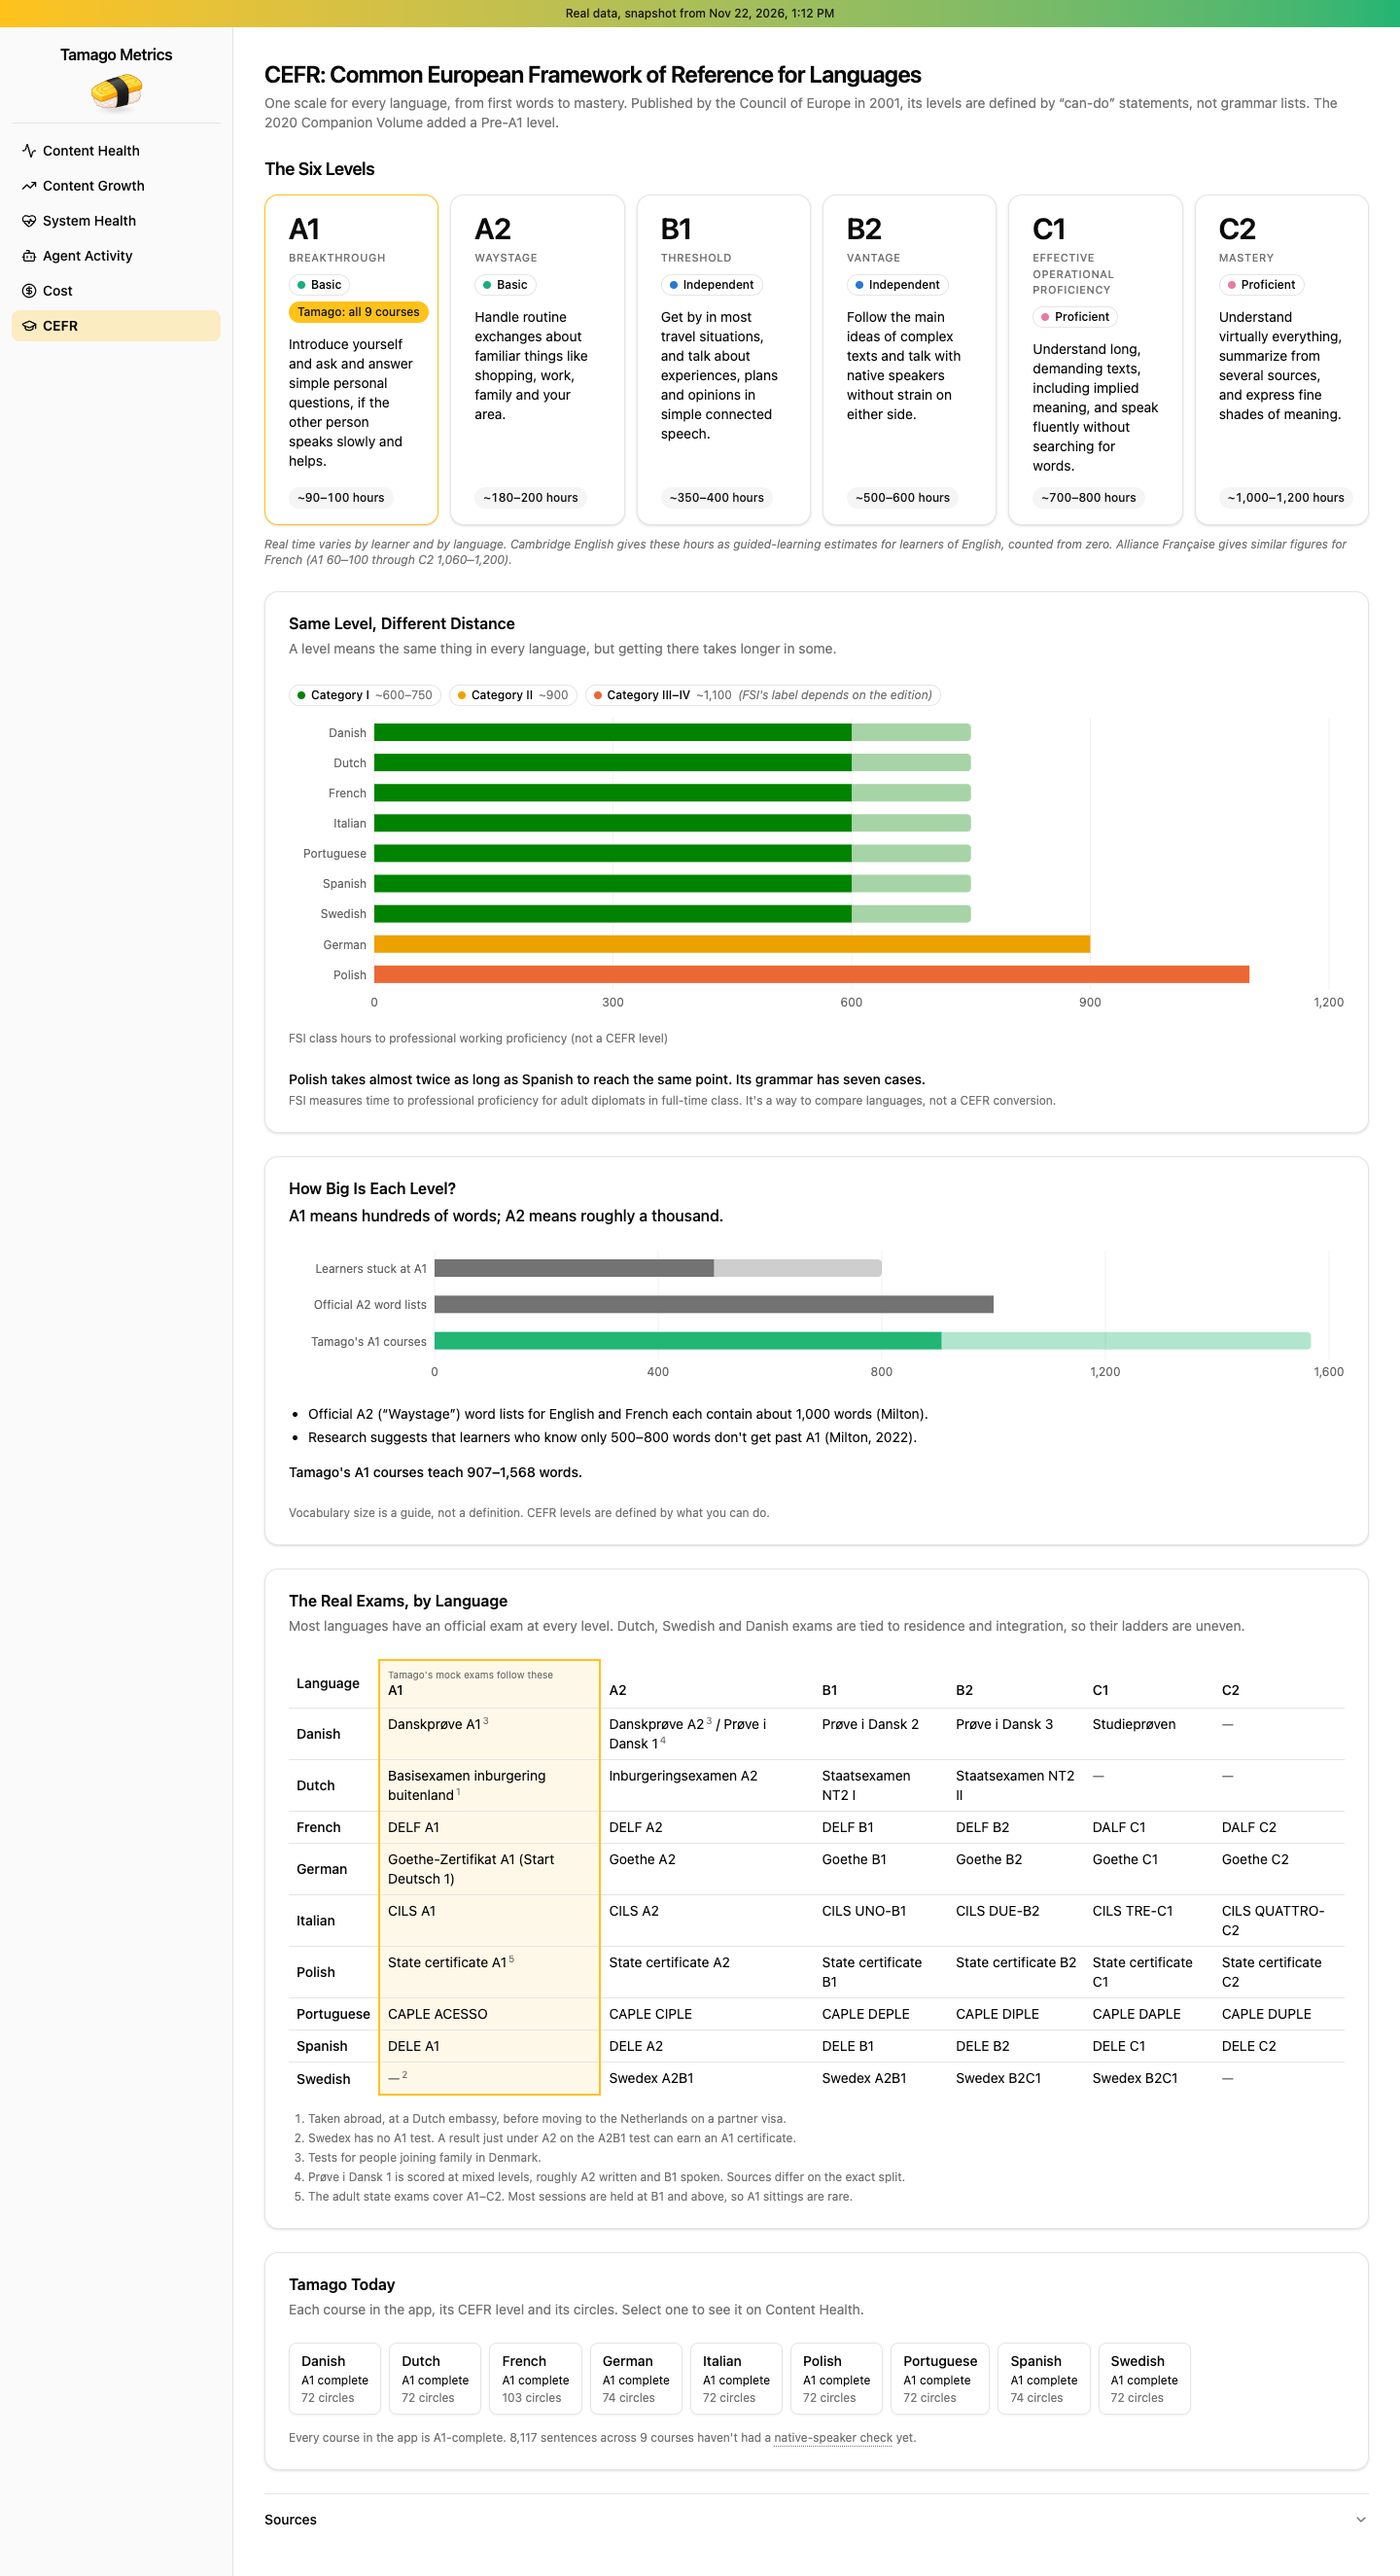
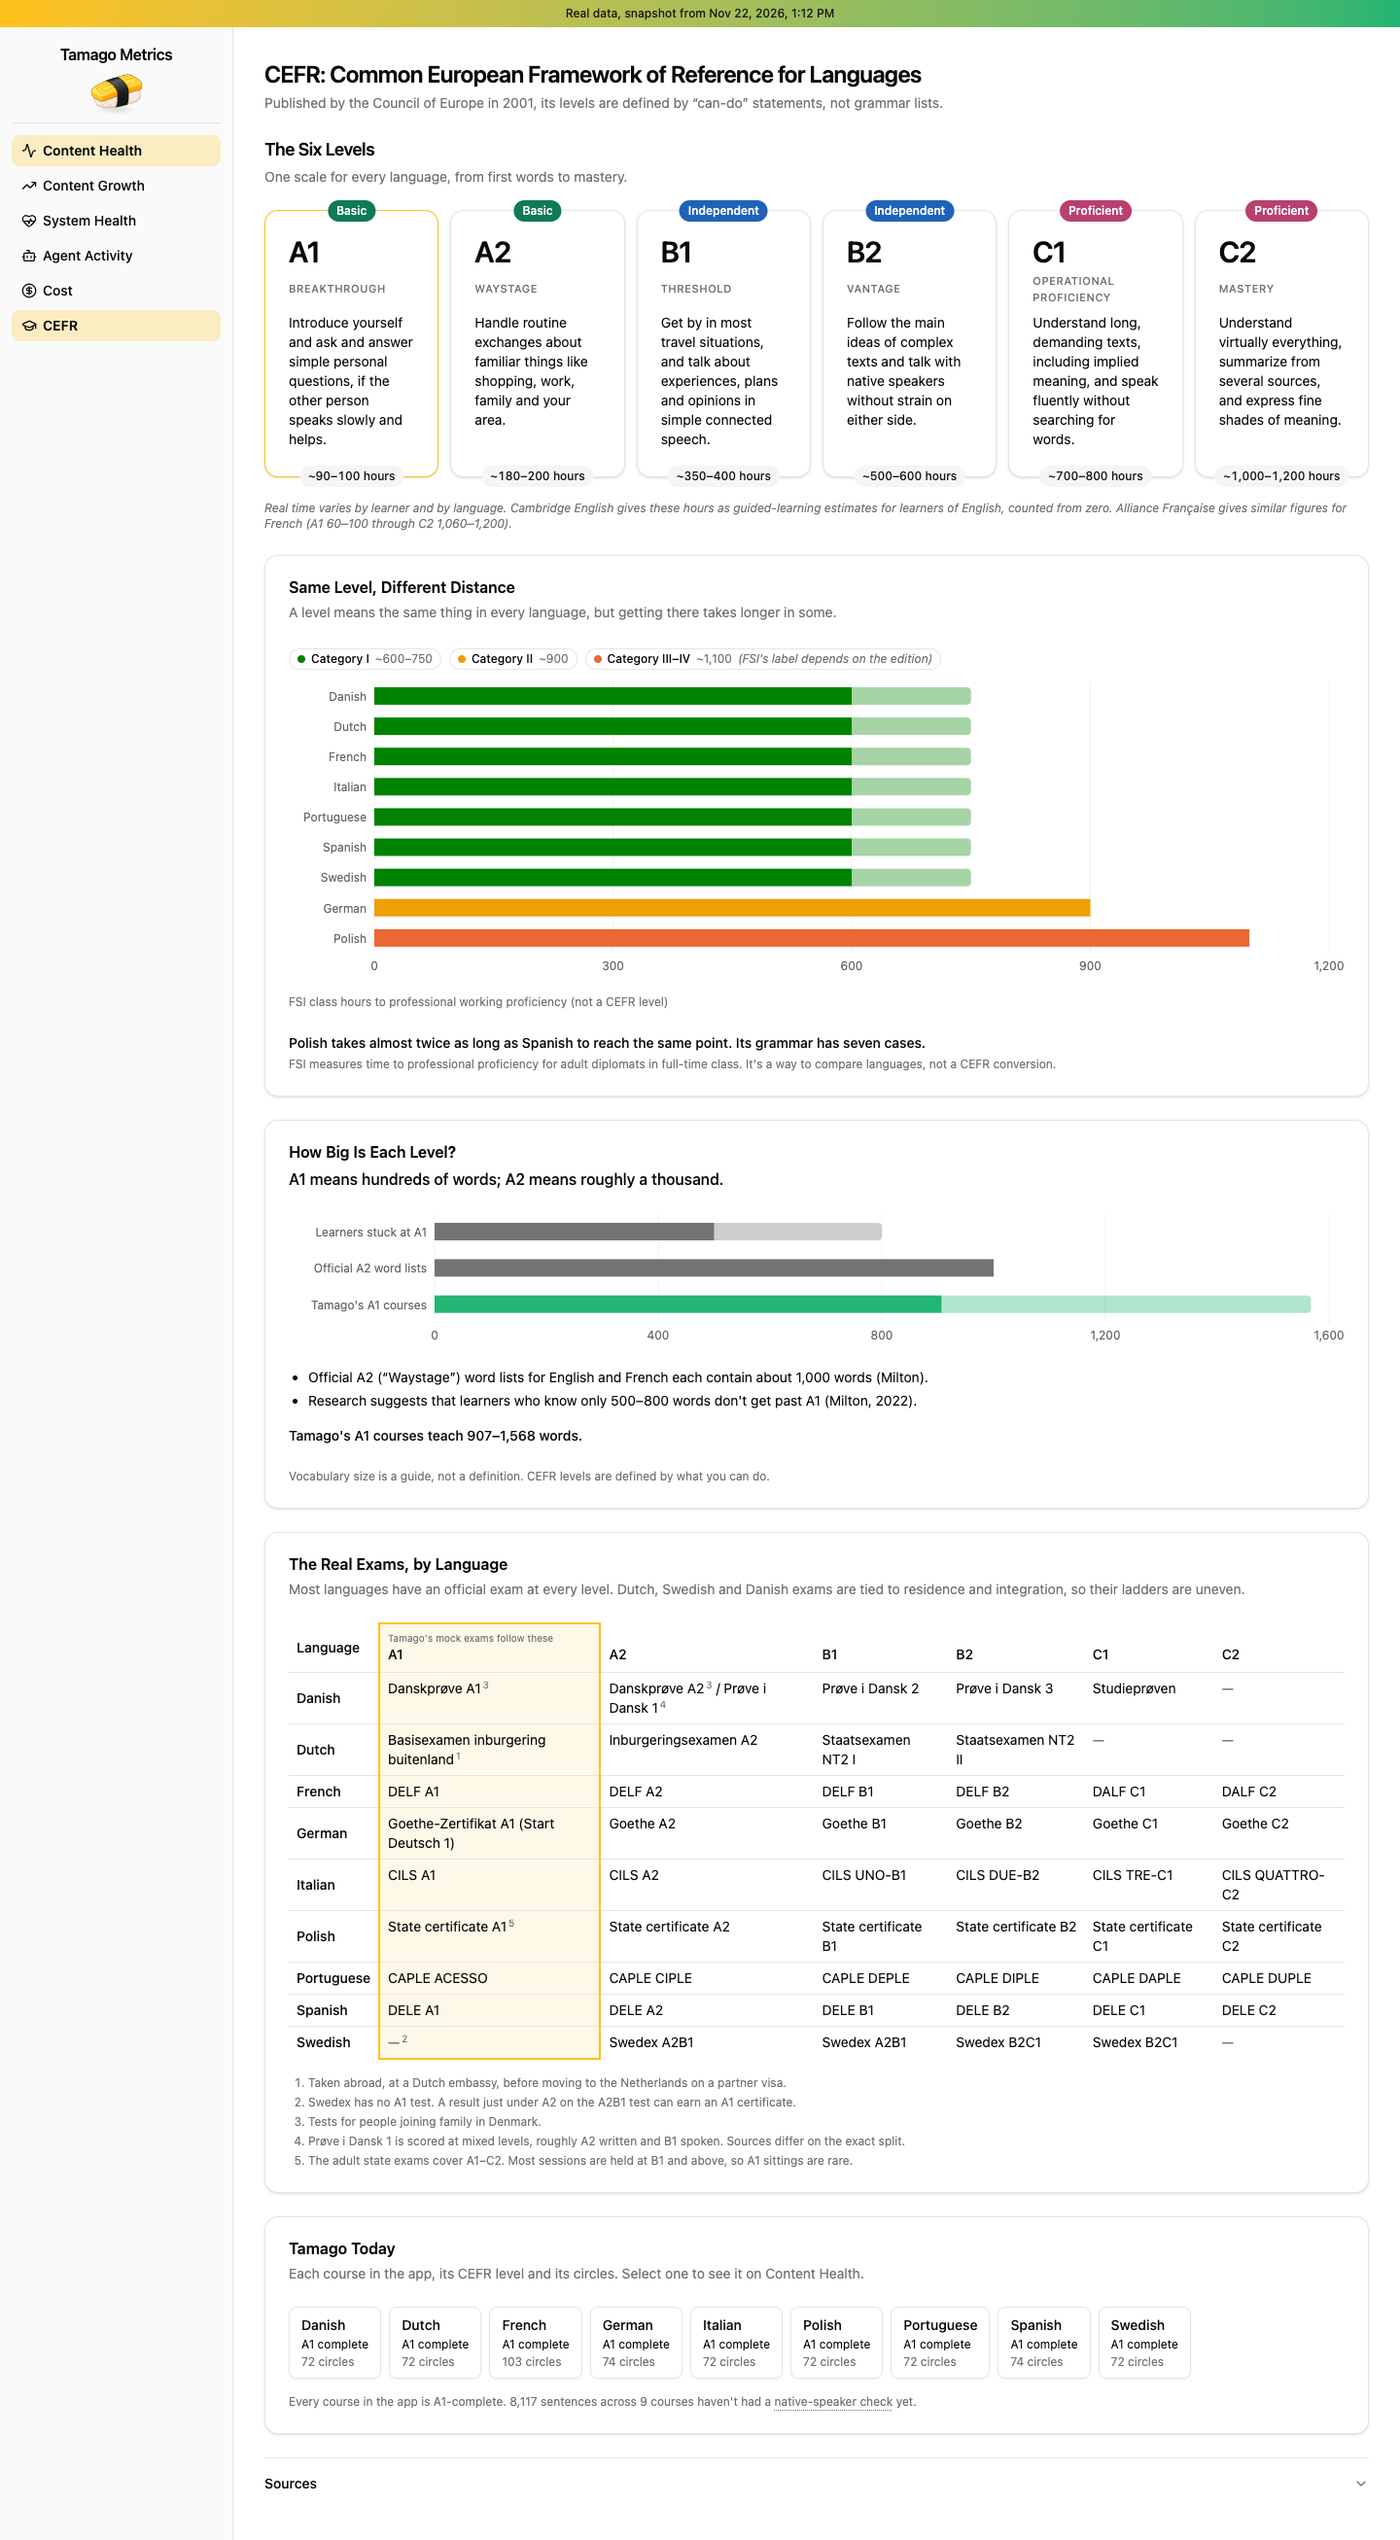
CEFR ladder: intro under The Six Levels, filled group chips on the top border, hours on the bottom border, can-do lines aligned (subgrid), C1 'Operational Proficiency', no Tamago badge, no Companion line

diff --git a/src/layout/CefrLadder.tsx b/src/layout/CefrLadder.tsx
@@ -1,5 +1,5 @@
 import { Badge } from '@/components/ui/badge'
-import { Card, CardContent, CardFooter, CardHeader } from '@/components/ui/card'
+import { Card, CardContent, CardHeader } from '@/components/ui/card'
 import { cefrGroups, cefrLadder } from '@/data'
 
 import { CefrGroupChip } from './CefrGroupChip'
@@ -7,33 +7,34 @@ import { CefrSection } from './CefrSection'
 
 const shortName = new Map(cefrGroups.map((group) => [group.id, group.short]))
 
+/** A chip centred on a card's top or bottom border, half over it. */
+const ON_TOP_BORDER = 'absolute top-0 left-1/2 -translate-x-1/2 -translate-y-1/2'
+const ON_BOTTOM_BORDER = 'absolute bottom-0 left-1/2 -translate-x-1/2 translate-y-1/2'
+
 /**
  * The six CEFR levels as a ladder of cards: six across on a wide screen, fewer as it narrows, one column on a phone.
- * The accent badge sits on the highest level a Tamago course has completed.
+ * The group chip sits on each card's top border and the hours on its bottom border. The cards share their rows
+ * (subgrid), so the codes, the names and the can-do lines start at the same height across a row, however long a name.
+ * The A1 card's yellow border marks the highest level a Tamago course has completed.
  */
 export function CefrLadder() {
   return (
-    <CefrSection title={cefrLadder.title}>
-      <ol className="grid grid-cols-1 gap-3 sm:grid-cols-2 lg:grid-cols-3 xl:grid-cols-6">
+    <CefrSection title={cefrLadder.title} intro={cefrLadder.intro}>
+      <ol className="grid grid-cols-1 gap-x-3 gap-y-8 pt-3 pb-3 sm:grid-cols-2 lg:grid-cols-3 xl:grid-cols-6">
         {cefrLadder.levels.map((level) => (
-          <li key={level.code} className="min-w-0">
-            <Card className={`h-full gap-3 py-4 ${level.tamagoBadge ? 'border-tamago-yellow' : ''}`}>
+          <li key={level.code} className="row-span-2 grid min-w-0 grid-rows-subgrid">
+            <Card
+              className={`relative row-span-2 grid grid-rows-subgrid gap-2 pt-6 pb-7 ${level.tamagoBadge ? 'border-tamago-yellow' : ''}`}
+            >
+              <CefrGroupChip group={level.group} label={shortName.get(level.group) ?? level.group} className={ON_TOP_BORDER} />
               <CardHeader className="gap-1">
                 <p className="text-3xl font-semibold tracking-tight">{level.code}</p>
                 <p className="text-[11px] font-medium tracking-wider text-muted-foreground uppercase">{level.name}</p>
-                <div className="flex flex-wrap gap-1.5 pt-1">
-                  <CefrGroupChip group={level.group} label={shortName.get(level.group) ?? level.group} />
-                  {level.tamagoBadge ? (
-                    <Badge className="border-transparent bg-tamago-yellow text-tamago-ink">{level.tamagoBadge}</Badge>
-                  ) : null}
-                </div>
               </CardHeader>
-              <CardContent className="flex-1 text-sm">{level.canDo}</CardContent>
-              <CardFooter>
-                <Badge variant="secondary" className="tabular-nums">
-                  {level.hours}
-                </Badge>
-              </CardFooter>
+              <CardContent className="text-sm">{level.canDo}</CardContent>
+              <Badge variant="secondary" className={`${ON_BOTTOM_BORDER} border-transparent tabular-nums`}>
+                {level.hours}
+              </Badge>
             </Card>
           </li>
         ))}

diff --git a/src/layout/CefrGroupChip.tsx b/src/layout/CefrGroupChip.tsx
@@ -1,20 +1,14 @@
 import { Badge } from '@/components/ui/badge'
 import type { CefrGroupId } from '@/data'
 
-/** Each CEFR group's color, as a dot beside its name. The dot carries the color; the text stays in text tokens. */
-const GROUP_DOT: Record<CefrGroupId, string> = {
-  basic: 'bg-chart-3',
-  independent: 'bg-chart-1',
-  proficient: 'bg-chart-5',
+/** Each CEFR group's fill: dark enough for white text (see the --cefr-* tokens in src/index.css). */
+const GROUP_FILL: Record<CefrGroupId, string> = {
+  basic: 'bg-cefr-basic',
+  independent: 'bg-cefr-independent',
+  proficient: 'bg-cefr-proficient',
 }
 
-/** A chip naming a CEFR group (Basic, Independent, Proficient) in its color. `detail` adds its levels, e.g. "A1, A2". */
-export function CefrGroupChip({ group, label, detail }: { group: CefrGroupId; label: string; detail?: string }) {
-  return (
-    <Badge variant="outline" className="gap-1.5">
-      <span aria-hidden="true" className={`size-2 shrink-0 rounded-full ${GROUP_DOT[group]}`} />
-      <span>{label}</span>
-      {detail ? <span className="font-normal text-muted-foreground">{detail}</span> : null}
-    </Badge>
-  )
+/** A chip naming a CEFR group (Basic, Independent, Proficient): white text on the group's color, no outline. */
+export function CefrGroupChip({ group, label, className = '' }: { group: CefrGroupId; label: string; className?: string }) {
+  return <Badge className={`border-transparent text-white ${GROUP_FILL[group]} ${className}`}>{label}</Badge>
 }

diff --git a/src/index.css b/src/index.css
@@ -40,6 +40,9 @@
     --color-tamago-yellow: var(--tamago-yellow);
     --color-tamago-green: var(--tamago-green);
     --color-tamago-ink: var(--tamago-ink);
+    --color-cefr-basic: var(--cefr-basic);
+    --color-cefr-independent: var(--cefr-independent);
+    --color-cefr-proficient: var(--cefr-proficient);
     --color-sidebar: var(--sidebar);
     --color-sidebar-foreground: var(--sidebar-foreground);
     --color-sidebar-primary: var(--sidebar-primary);
@@ -83,6 +86,11 @@
     --tamago-yellow: #ffc21a;
     --tamago-green: #22b573;
     --tamago-ink: #1c1a17;
+    /* The CEFR group chips: darker versions of chart-3, chart-1 and chart-5, so white text on them passes AA
+       (5.3, 5.9 and 5.3 to 1). The same in light and dark. */
+    --cefr-basic: #0f7a55;
+    --cefr-independent: #1f63b8;
+    --cefr-proficient: #b8406f;
     --chart-neutral: oklch(0.556 0 0);
     --sidebar: oklch(0.985 0 0);
     --sidebar-foreground: oklch(0.145 0 0);

diff --git a/src/data/cefr.ts b/src/data/cefr.ts
@@ -57,6 +57,7 @@ const tamagoBadge =
 
 export const cefrLadder = {
   title: ladderText.title,
+  intro: ladderText.intro,
   footnote: ladderText.footnote,
   levels: ladderText.levels.map((level): CefrLevel => {
     check(cefrGroups.some((g) => g.id === level.group), `src/data/cefr.json: level ${level.code} has unknown group "${level.group}"`)
